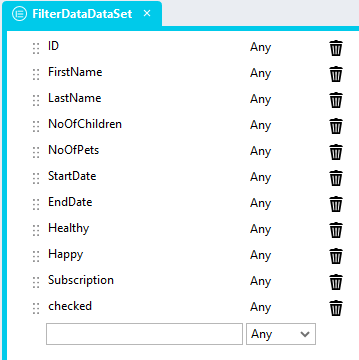
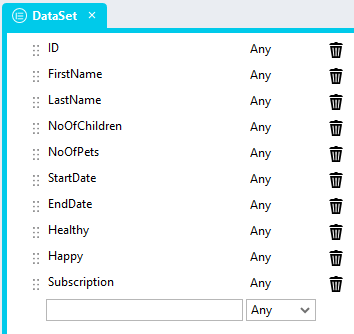
readme

diff --git a/README.md b/README.md
@@ -3,10 +3,10 @@
 https://github.com/user-attachments/assets/46a9d673-d14d-4329-9574-235980898ac4
 
 # Overview <!-- omit in toc -->
-Using this module, a *Repeater* control can be configured to look and function similar to the standard Stadium *DataGrid* control. Use this module to display data from data sources that contain too many records to display in the standard (client-side) Stadium DataGrid. 
+Using this module, a *Repeater* control can be configured to look and function similar to the standard Stadium *DataGrid* control. 
+Use this module to display data from data sources that contain too many records to display in the standard (client-side) Stadium DataGrid. 
 
 ## Notable features
-
 - Can be used with Database and Web Service Connectors
 - Can be used with data sources of any size
 - Provides for sorting and paging
@@ -18,19 +18,17 @@ Using this module, a *Repeater* control can be configured to look and function s
 - Support for data export
 - Support for [custom filters](#custom-filters)
 
-## Setup Overview
-
+## Setup Steps
 To use this module in a Stadium application
-1. Compose a *DataGrid* from a [variety of other Stadium controls](#page), such as Containers, Grids, Repeaters, Labels and Links
+1. Compose a *DataGrid* from a [variety of other Stadium controls](#page), including Containers, a Grid, a Repeater, some Labels and Links
 2. Add SQL queries or API calls that return data for specific DataGrid pages (must accept the specific parameters [outlined below](#connector))
-3. Retrieve and assign appropriate datasets in various [event handlers](#scripts-and-events) (when the *DataGrid* loads or when users opt to page through or sort the data)
+3. Retrieve and assign appropriate datasets in various [event handlers](#scripts-and-events) (when the *Repeater* loads or when users opt to page through or sort the data)
 
 ## Assets
-
 The module comes with some [CSS](#css-setup) and [two scripts](#global-scripts)
 
 - The CSS makes the [collection of controls](#page) required in this module look similar to the standard Stadium *DataGrid* control
-- The scripts provide functionality to facilitate the rendering of data and keeping the *DataGrid* state (including data page, sort field and sort direction)
+- The scripts provide functionality to facilitate the rendering of data and keeping state (including data page, sort field and sort direction)
 
 ## Example Application
 The repo includes a sample application that 
@@ -56,7 +54,7 @@ The repo includes a sample application that
 - [Connector](#connector)
   - [StadiumFilterData Queries](#stadiumfilterdata-queries)
     - ["TotalRecords" Query](#totalrecords-query)
-    - ["Select" Query](#select-query)
+    - ["BasicSelect" Query](#basicselect-query)
   - [Types](#types)
     - [DataGridState Type](#datagridstate-type)
     - [DataSet Type](#dataset-type)
@@ -92,7 +90,7 @@ The repo includes a sample application that
 1.0 initial
 
 # Sample Database Setup
-[Follow these instructions](database-setup.md) to set up the database
+[Follow these instructions](database-setup.md) to set up the database for the [sample application](Stadium6/RepeaterDataGrid.sapz)
 
 # Application
 
@@ -100,27 +98,29 @@ The repo includes a sample application that
 1. Check the *Enable Style Sheet* checkbox in the application properties
 
 # Connector
-Set up your connector to your datasource as you normally would or change the sample connectors to connect to your "StadiumFilterData" database. 
+A database connector to the "StadiumFilterData" database is required
 
 ## StadiumFilterData Queries
-The module requires four data sets: 
-
-1. The total number of records (to calculate the number of pages)
-2. The data to be attached to the *Repeater* (from a database or an API)
-
-Create the queries below and press the "Fetch Fields & Parameters" button to run the example application. These queries include parameters to facilitate DataGrid *paging* and *sorting*. 
+The module requires the following data:
+1. The total number of records. This is used to calculate the number of pages
+2. A page of data to be displayed in the *Repeater* (from a database or an API)
 
 ![](images/DBQueries.png)
 
 ### "TotalRecords" Query
+Create a query called "TotalRecords". The result is used to calulate the total number of pages in the *Repeater*
 ```sql
 select count(ID) as total from MyData
 ```
 
-### "Select" Query
+### "BasicSelect" Query
+Create a query called "BasicSelect". This will return a page of data that must be attached to the *Repeater*
 
-NOTE: When pasting this SQL into Stadium and pressing the "Fetch Fields & Parameters" button, an error will pop up. This is expected and not a problem. You need to set the Type option for the parameters called "offsetRows" and "pageSize" to "Int64"
- as shown below and press the "Fetch Fields & Parameters" button again. 
+The "BasicSelect" query include the parameters below to facilitate *paging*:
+1. @offsetRows: The number of records to skip
+2. @pageSize: The number of records to fetch
+
+**NOTE: When pasting this SQL into Stadium and pressing the "Fetch Fields & Parameters" button, an error will pop up. This is expected and not a problem. You need to set the Type option for the parameters called "offsetRows" and "pageSize" to "Int64" as shown below and press the "Fetch Fields & Parameters" button again.**
 
 ![](images/SQLErrorParameters.png)
 
@@ -136,36 +136,14 @@ SELECT ID
       ,Happy
       ,Subscription
   FROM dbo.MyData
-  ORDER BY
-  case when UPPER(@sortField) = 'ID' AND (LOWER(@sortDirection) = 'asc' OR @sortDirection = '') THEN ID END ASC,
-  case when UPPER(@sortField) = 'ID' AND LOWER(@sortDirection) = 'desc' THEN ID END DESC,
-  case when LOWER(@sortField) = 'FirstName' AND (LOWER(@sortDirection) = 'asc' OR @sortDirection = '') THEN FirstName END ASC,
-  case when LOWER(@sortField) = 'FirstName' AND LOWER(@sortDirection) = 'desc' THEN FirstName END DESC,
-  case when LOWER(@sortField) = 'LastName' AND (LOWER(@sortDirection) = 'asc' OR @sortDirection = '') THEN LastName END ASC,
-  case when LOWER(@sortField) = 'LastName' AND LOWER(@sortDirection) = 'desc' THEN LastName END DESC,
-  case when LOWER(@sortField) = 'NoOfChildren' AND (LOWER(@sortDirection) = 'asc' OR @sortDirection = '') THEN NoOfChildren END ASC,
-  case when LOWER(@sortField) = 'NoOfChildren' AND LOWER(@sortDirection) = 'desc' THEN NoOfChildren END DESC,
-  case when LOWER(@sortField) = 'NoOfPets' AND (LOWER(@sortDirection) = 'asc' OR @sortDirection = '') THEN NoOfPets END ASC,
-  case when LOWER(@sortField) = 'NoOfPets' AND LOWER(@sortDirection) = 'desc' THEN NoOfPets END DESC,
-  case when LOWER(@sortField) = 'StartDate' AND (LOWER(@sortDirection) = 'asc' OR @sortDirection = '') THEN StartDate END ASC,
-  case when LOWER(@sortField) = 'StartDate' AND LOWER(@sortDirection) = 'desc' THEN StartDate END DESC,
-  case when LOWER(@sortField) = 'EndDate' AND (LOWER(@sortDirection) = 'asc' OR @sortDirection = '') THEN EndDate END ASC,
-  case when LOWER(@sortField) = 'EndDate' AND LOWER(@sortDirection) = 'desc' THEN EndDate END DESC,
-  case when LOWER(@sortField) = 'Healthy' AND (LOWER(@sortDirection) = 'asc' OR @sortDirection = '') THEN Healthy END ASC,
-  case when LOWER(@sortField) = 'Healthy' AND LOWER(@sortDirection) = 'desc' THEN Healthy END DESC,
-  case when LOWER(@sortField) = 'Happy' AND (LOWER(@sortDirection) = 'asc' OR @sortDirection = '') THEN Happy END ASC,
-  case when LOWER(@sortField) = 'Happy' AND LOWER(@sortDirection) = 'desc' THEN Happy END DESC,
-  case when LOWER(@sortField) = 'Subscription' AND (LOWER(@sortDirection) = 'asc' OR @sortDirection = '') THEN Subscription END ASC,
-  case when LOWER(@sortField) = 'Subscription' AND LOWER(@sortDirection) = 'desc' THEN Subscription END DESC,
-  case when @sortField = '' then ID end ASC,
-  case when @sortField = 'undefined' then ID end ASC
-OFFSET @offsetRows ROWS FETCH NEXT @pageSize ROWS ONLY
+  ORDER BY ID
+  OFFSET @offsetRows ROWS FETCH NEXT @pageSize ROWS ONLY
 ```
 
 ## Types
-Add two types to make working with the data easier 
-1. The "DataGridState" type described below
-2. A type that matches the field in your dataset (example below)
+Add two types to make working with the data easier (these are optional, but highly recommended) 
+1. The "DataGridState" type to ascertain the state of the *Repeater* (e.g. the page to fetch from the database)
+2. A type that matches the fields in your dataset (example below)
 
 ### DataGridState Type
 Add a type called "DataGridState" with the properties below:
@@ -191,7 +169,6 @@ Add a type that represents the fields in your dataset. The sample dataset type i
 8. Healthy (any)
 9. Happy (any)
 10. Subscription (any)
-11. checked (any)
 
 ![](images/FilterDataType.png)
 

diff --git a/sortable.md b/sortable.md
@@ -9,3 +9,56 @@ In order to allow users to click on column headers to make the DataGrid data sor
 3. Drag the "GetData" script into the control *Click Event Handler* script
 
 ![](images/SortingEventHandler.png)
+
+## Query
+
+Sorting requires the additujon of an *ORDER BY* clause to the query. Create the queries below and press the "Fetch Fields & Parameters" button to run the example application. These queries include parameters to facilitate DataGrid *paging* 
+
+### "TotalRecords" Query
+The totals query remains as is: 
+```sql
+select count(ID) as total from MyData
+```
+
+### "SortableSelect" Query
+NOTE: When creating this SQL in the Stadium Query Editor and pressing the "Fetch Fields & Parameters" button, an error will pop up. This is expected and not a problem. You need to set the *Type* option for the parameters called "offsetRows" and "pageSize" to "Int64" as shown below. Then press the "Fetch Fields & Parameters" button again. 
+
+![](images/SQLErrorParameters.png)
+
+```sql
+SELECT ID
+      ,FirstName
+      ,LastName
+      ,NoOfChildren
+      ,NoOfPets
+      ,StartDate
+      ,EndDate
+      ,Healthy
+      ,Happy
+      ,Subscription
+  FROM dbo.MyData
+  ORDER BY
+  case when UPPER(@sortField) = 'ID' AND (LOWER(@sortDirection) = 'asc' OR @sortDirection = '') THEN ID END ASC,
+  case when UPPER(@sortField) = 'ID' AND LOWER(@sortDirection) = 'desc' THEN ID END DESC,
+  case when LOWER(@sortField) = 'FirstName' AND (LOWER(@sortDirection) = 'asc' OR @sortDirection = '') THEN FirstName END ASC,
+  case when LOWER(@sortField) = 'FirstName' AND LOWER(@sortDirection) = 'desc' THEN FirstName END DESC,
+  case when LOWER(@sortField) = 'LastName' AND (LOWER(@sortDirection) = 'asc' OR @sortDirection = '') THEN LastName END ASC,
+  case when LOWER(@sortField) = 'LastName' AND LOWER(@sortDirection) = 'desc' THEN LastName END DESC,
+  case when LOWER(@sortField) = 'NoOfChildren' AND (LOWER(@sortDirection) = 'asc' OR @sortDirection = '') THEN NoOfChildren END ASC,
+  case when LOWER(@sortField) = 'NoOfChildren' AND LOWER(@sortDirection) = 'desc' THEN NoOfChildren END DESC,
+  case when LOWER(@sortField) = 'NoOfPets' AND (LOWER(@sortDirection) = 'asc' OR @sortDirection = '') THEN NoOfPets END ASC,
+  case when LOWER(@sortField) = 'NoOfPets' AND LOWER(@sortDirection) = 'desc' THEN NoOfPets END DESC,
+  case when LOWER(@sortField) = 'StartDate' AND (LOWER(@sortDirection) = 'asc' OR @sortDirection = '') THEN StartDate END ASC,
+  case when LOWER(@sortField) = 'StartDate' AND LOWER(@sortDirection) = 'desc' THEN StartDate END DESC,
+  case when LOWER(@sortField) = 'EndDate' AND (LOWER(@sortDirection) = 'asc' OR @sortDirection = '') THEN EndDate END ASC,
+  case when LOWER(@sortField) = 'EndDate' AND LOWER(@sortDirection) = 'desc' THEN EndDate END DESC,
+  case when LOWER(@sortField) = 'Healthy' AND (LOWER(@sortDirection) = 'asc' OR @sortDirection = '') THEN Healthy END ASC,
+  case when LOWER(@sortField) = 'Healthy' AND LOWER(@sortDirection) = 'desc' THEN Healthy END DESC,
+  case when LOWER(@sortField) = 'Happy' AND (LOWER(@sortDirection) = 'asc' OR @sortDirection = '') THEN Happy END ASC,
+  case when LOWER(@sortField) = 'Happy' AND LOWER(@sortDirection) = 'desc' THEN Happy END DESC,
+  case when LOWER(@sortField) = 'Subscription' AND (LOWER(@sortDirection) = 'asc' OR @sortDirection = '') THEN Subscription END ASC,
+  case when LOWER(@sortField) = 'Subscription' AND LOWER(@sortDirection) = 'desc' THEN Subscription END DESC,
+  case when @sortField = '' then ID end ASC,
+  case when @sortField = 'undefined' then ID end ASC
+OFFSET @offsetRows ROWS FETCH NEXT @pageSize ROWS ONLY
+```

diff --git a/editable-columns.md b/editable-columns.md
@@ -11,3 +11,8 @@ To make a column editable:
 **Example shows how to add a CheckboxList column and a DropDown column**
 
 ![](images/EditableColumns.png)
+
+## Type
+To set the checkbox checked property, add a "checked" property to the "DataSet" type
+
+![](images/FilterDataTypeExtended.png)
